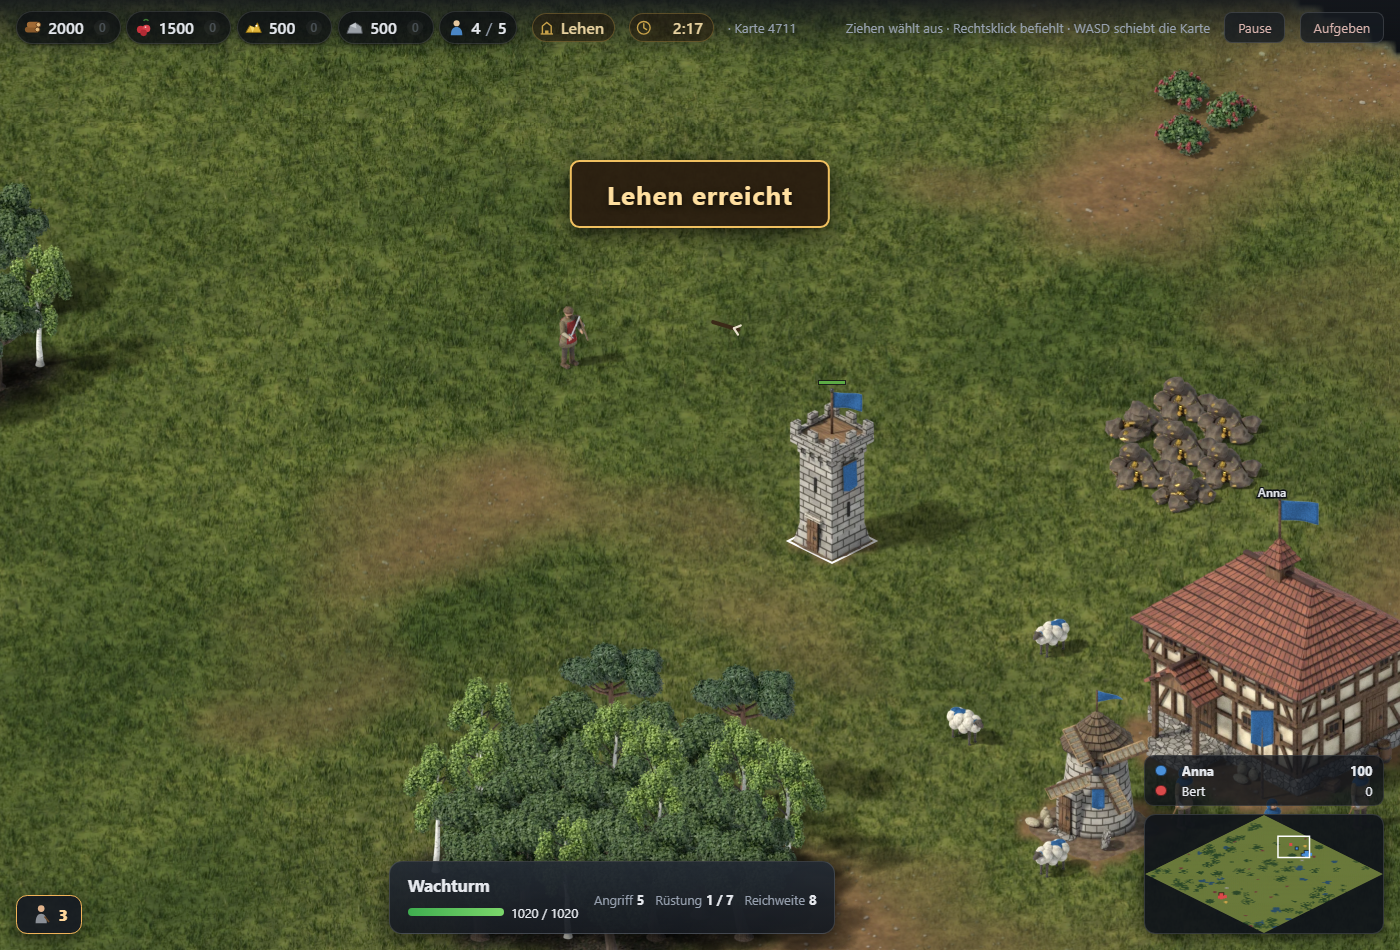
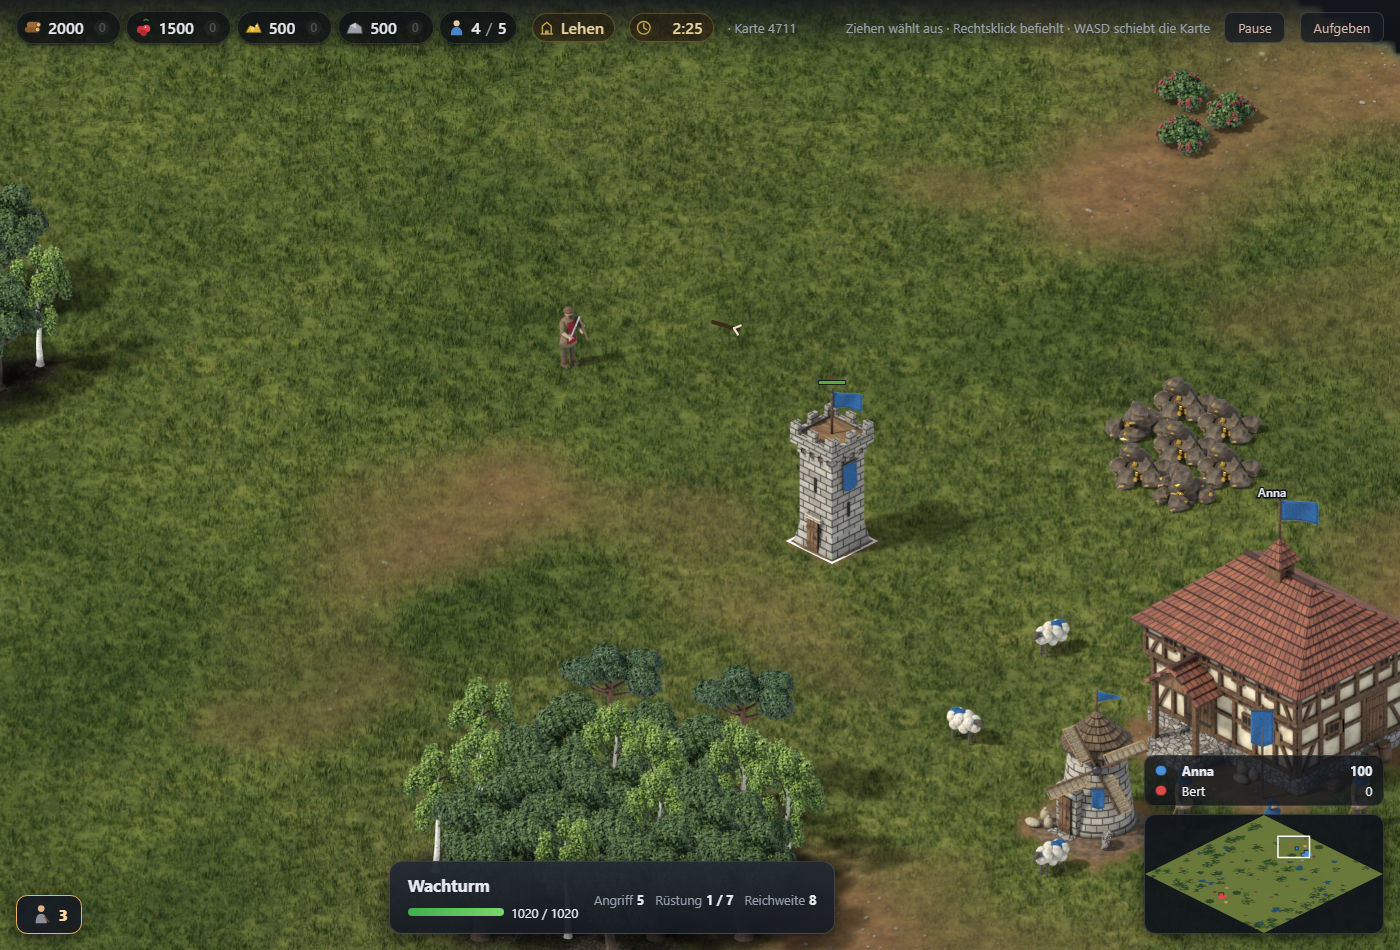
bauen AC-32: die Burg schiesst eine Salve aus vier Pfeilen
Benutzer: "Im original hat die burg eher 4/5 pfeile alle 2 sekunden". Der
eine Pfeil war falsch aus der Vorlage abgeschrieben. `pfeile` in den Daten,
alle auf dasselbe Ziel, jeder fuer sich gegen die Ruestung; ohne den Eintrag
bleibt es einer (Wachturm). Die Leiste nennt die Zahl, im Bild fliegen die
vier kurz nacheinander und nebeneinander. Vorlage berichtigt.

Changed region(s): [[0.3993, 0.1526, 0.6143, 0.2747]]

diff --git a/public/ansicht.js b/public/ansicht.js
@@ -413,14 +413,27 @@ export class Ansicht {
     // Ein fuenfter Wert 1 ist ein Stein des Mangonels (kampf AC-19). Er fliegt
     // ebenso sieben Felder je Sekunde - so lange, wie der Server ihn rechnet
     // (`geschoss` in den Daten) -, nur in hoeherem Bogen.
-    for (const [x0, y0, x1, y1, stein] of nachricht.p || []) {
+    // Eine Salve (bauen AC-32): mehrere Pfeile in einer Nachricht von
+    // derselben Stelle zum selben Ziel. Gerechnet sind sie alle im selben
+    // Takt; im Bild fliegen sie kurz nacheinander und eine Handbreit
+    // auseinander, sonst saehe man einen.
+    const salve = new Map();
+    for (const [x0, y0, zx, zy, stein] of nachricht.p || []) {
+      const marke = `${x0}|${y0}|${zx}|${zy}`;
+      const nummer = stein === 1 ? 0 : salve.get(marke) || 0;
+      salve.set(marke, nummer + 1);
+      // Quer zur Flugbahn versetzt: 0, +, -, ++ ...
+      const lang = Math.hypot(zx - x0, zy - y0) || 1;
+      const seite = (nummer % 2 ? 1 : -1) * Math.ceil(nummer / 2) * 0.22;
+      const x1 = zx + (-(zy - y0) / lang) * seite;
+      const y1 = zy + ((zx - x0) / lang) * seite;
       const weite = Math.hypot(x1 - x0, y1 - y0);
       // Ein Turm schiesst von oben (bauen AC-29): der Server schickt die Mitte
       // seiner Grundflaeche, die Hoehe kennt nur die Zeichnung.
       const oben = this.schussHoeheBei(x0, y0);
       const dauer = Math.max(150, (weite / 7) * 1000);
       this.pfeile.push({
-        x0, y0, x1, y1, weite, oben, stein: stein === 1, start: jetzt, dauer,
+        x0, y0, x1, y1, weite, oben, stein: stein === 1, start: jetzt + nummer * 70, dauer,
       });
       // Zu hoeren (bedienung AC-62): die Sehne beim Schuetzen, der Wurfarm
       // beim Mangonel - und der Stein dort, wo er herunterkommt.
@@ -2828,6 +2841,8 @@ export class Ansicht {
     stift.lineCap = 'round';
     for (const p of this.pfeile) {
       const t = Math.min(1, (jetzt - p.start) / p.dauer);
+      // Der spaetere Pfeil einer Salve ist noch nicht von der Sehne.
+      if (t < 0) continue;
       if (p.stein) {
         // Ein grauer Brocken, oben links im Licht.
         const mitte = ort(p, t);

diff --git a/server/spiele/strategie/daten.js b/server/spiele/strategie/daten.js
@@ -251,15 +251,19 @@ const GEBAEUDE = {
   },
   // Die Burg (bauen AC-32): Kosten, Bauzeit, Leben und Wohnraum aus der
   // Vorlage, die Kampfwerte aus derselben Zeile darunter - 11 Angriff,
-  // Reichweite 8, alle zwei Sekunden ein Pfeil, Ruestung 8/11. Sie schiesst
+  // Reichweite 8, alle zwei Sekunden eine Salve, Ruestung 8/11. Sie schiesst
   // nach derselben Regel wie der Wachturm (`welt.tuermeTakten()` misst vom
-  // Rand der Grundflaeche). Sicht 9 statt der 11 des Originals: ein Feld ueber
+  // Rand der Grundflaeche) - nur `pfeile` auf einmal statt einem: im Original
+  // schiesst eine leere Burg eine Salve (das Wiki nennt fuenf Pfeile, ein
+  // Beitrag zur Definitive Edition vier), hier vier. Bis 2026-11-13 stand
+  // hier einer, falsch aus der Vorlage abgeschrieben (Benutzer: "Alle 2
+  // sekunden ein pfeil is eher der wachturm oder?"). Sicht 9 statt der 11 des Originals: ein Feld ueber
   // die Reichweite wie beim Wachturm, und der Aussenposten bleibt das Gebaeude,
   // das am weitesten sieht (kampf AC-18). Die Spezialeinheit kommt mit den
   // Voelkern (Stufe E), der Unterschlupf ist nicht gebaut.
   burg: {
     groesse: 4, kosten: { stein: 650 }, bauzeit: 200, leben: 4800, wohnraum: 20, annahme: [], bildetAus: [], zeitalter: 2,
-    angriff: 11, reichweite: 8, nachladen: 2, nahruestung: 8, fernruestung: 11, sicht: 9,
+    angriff: 11, reichweite: 8, nachladen: 2, pfeile: 4, nahruestung: 8, fernruestung: 11, sicht: 9,
   },
   // Der Markt (bauen AC-33): Kosten, Bauzeit und Leben aus der Vorlage, ab der
   // Feudalzeit wie dort. Vier mal vier Felder wie im Original. `handel` sagt,

diff --git a/server/spiele/strategie/welt.js b/server/spiele/strategie/welt.js
@@ -2482,7 +2482,11 @@ class Welt {
       // Takt des Schusses geht mit ab wie bei `angriffTakten()`.
       const nachladen = this.gebaeudewert(turm.besitzer, turm.art, 'nachladen');
       turm.nachladen = Math.round(nachladen * TAKTE_PRO_SEKUNDE) - 1;
-      this.schlagen(turm, ziel, false);
+      // Eine Salve (bauen AC-32): so viele Pfeile, wie `pfeile` in den Daten
+      // sagt, alle auf dasselbe Ziel und jeder fuer sich gegen die Ruestung
+      // gerechnet. Ohne den Eintrag ist es einer - der Wachturm.
+      const pfeile = GEBAEUDE[turm.art].pfeile || 1;
+      for (let i = 0; i < pfeile; i++) this.schlagen(turm, ziel, false);
     }
   }
 
@@ -4168,6 +4172,8 @@ class Welt {
           sicht: w.sicht,
           // Ein Turm zeigt an der Auswahl, was er kann (bauen AC-29).
           angriff: w.angriff || 0, reichweite: w.reichweite || 0,
+          // Die Burg schiesst eine Salve (bauen AC-32).
+          pfeile: w.pfeile || 1,
           nahruestung: w.nahruestung, fernruestung: w.fernruestung,
           // Gezogen statt gesetzt, von Feld zu Feld (bauen AC-30).
           gezogen: Boolean(w.gezogen),

diff --git a/public/auswahlleiste.js b/public/auswahlleiste.js
@@ -1117,6 +1117,12 @@ export class Auswahlleiste {
           ? wert('Reichweite', `${reichweite}`, 'Schussweite in Feldern')
           : wert(null, 'Nahkampf', 'Trifft nur, wer daneben steht'),
       );
+      // Eine Salve (bauen AC-32): die Burg schiesst mehrere Pfeile auf einmal.
+      const pfeile = lesen('pfeile');
+      if (pfeile > 1) {
+        zeile.dataset.pfeile = String(pfeile);
+        zeile.append(wert('Pfeile', `${pfeile}`, 'So viele Pfeile je Salve, jeder mit dem vollen Angriff'));
+      }
     } else {
       zeile.append(
         wert(null, 'Greift nicht an', 'Ein Rechtsklick auf einen Gegner ist nur ein Gang dorthin'),

diff --git a/specs/10-strategie/bauen.md b/specs/10-strategie/bauen.md
@@ -247,7 +247,13 @@ Spezialeinheit der Burg (kommt mit den Häusern, Stufe E), Palisade.
   (kampf AC-18). Gezeichnet als Ringmauer mit vier Ecktürmen und hohem
   Bergfried, Banner und Fahne in Spielerfarbe, das Tor vorn rechts; im
   Baumenü die Taste F. Spezialeinheit und Unterschlupf kommen später (Stufe
-  E, nicht gebaut).
+  E, nicht gebaut). **Seit 2026-11-13 schießt sie eine Salve** (Benutzer:
+  „Im Original hat die Burg eher 4/5 Pfeile alle 2 Sekunden"): vier Pfeile
+  alle zwei Sekunden auf dasselbe Ziel, jeder für sich gegen die Rüstung
+  gerechnet (`pfeile` in den Daten; ohne den Eintrag ist es einer, der
+  Wachturm). Die Leiste nennt die Zahl, im Bild fliegen die vier kurz
+  nacheinander und nebeneinander. Der eine Pfeil bis dahin war falsch aus
+  der Vorlage abgeschrieben.
 - **AC-33** `fertig` **Markt tauscht** — Am Markt kauft man 100 Holz, Nahrung
   oder Stein für Gold und verkauft sie gegen Gold. Jeder Kauf macht diesen
   Rohstoff teurer, jeder Verkauf billiger; zwischen Kauf- und Verkaufspreis

diff --git a/docs/strategie/vorlage-aoe2.md b/docs/strategie/vorlage-aoe2.md
@@ -81,8 +81,11 @@ aber nicht linear: n Dorfbewohner brauchen etwa `3·t / (n + 2)`.
 | Wunder | Imperial | je 1000 Holz, Nahrung, Gold, Stein | 3500 s | 4800 | Sieg nach Zeit |
 
 Was schießt: der **Wachturm** 5 Angriff, Reichweite 8, ein Pfeil alle 2 s,
-Rüstung 1/7, Sicht 9; die **Burg** 11 Angriff, Reichweite 8, ein Pfeil alle
-2 s, Rüstung 8/11, Sicht 11, vier mal vier Felder. Mit Besatzung schießen
+Rüstung 1/7, Sicht 9; die **Burg** 11 Angriff, Reichweite 8, eine Salve alle
+2 s, Rüstung 8/11, Sicht 11, vier mal vier Felder. **Berichtigt am
+2026-11-13:** hier stand „ein Pfeil alle 2 s" — eine leere Burg schießt im
+Original eine Salve (das Wiki nennt fünf Pfeile, ein Beitrag zur Definitive
+Edition vier zu zusammen 44); gebaut sind vier. Mit Besatzung schießen
 beide mehr Pfeile — der Unterschlupf ist hier nicht gebaut.
 
 Der **Markt** tauscht je 100 Holz, Nahrung oder Stein gegen Gold. Grundpreis
